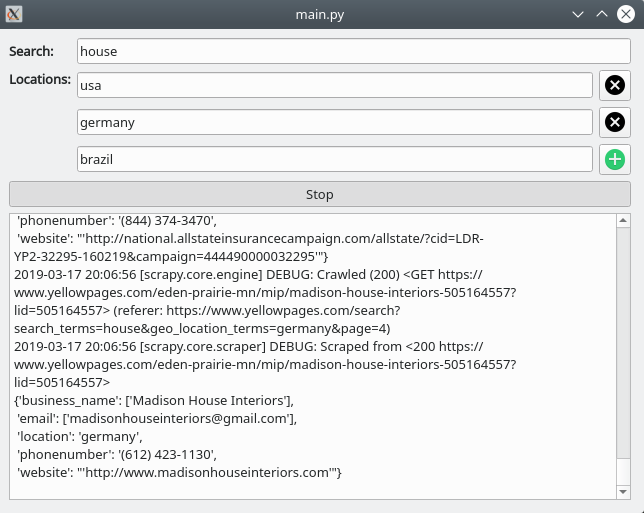
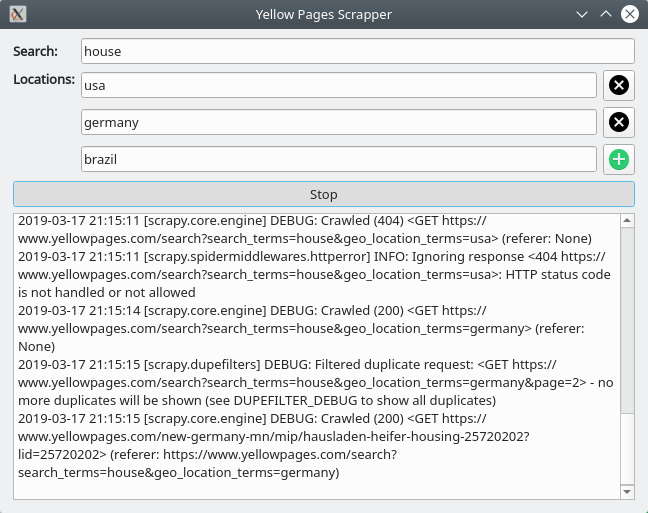
55212321

diff --git a/questions/55212321/yellowpagescraper/gui.py b/questions/55212321/yellowpagescraper/gui.py
@@ -85,9 +85,10 @@ class LocationWidget(QtWidgets.QWidget):
                 locations.append(le.text())
         return locations
 
-class YelloWidget(QtWidgets.QMainWindow):
+class YellowWidget(QtWidgets.QMainWindow):
     def __init__(self, parent=None):
-        super(YelloWidget, self).__init__(parent)
+        super(YellowWidget, self).__init__(parent)
+        self.setWindowTitle('Yellow Pages Scrapper')
         self.scrapy_worker = ScrapyWorker(self)
         self.search_item_le = QtWidgets.QLineEdit()
         self.location_widget = LocationWidget()
@@ -133,7 +134,7 @@ if __name__ == '__main__':
     import sys
     app = QtWidgets.QApplication(sys.argv)
     app.setStyle('fusion')
-    w = YelloWidget()
+    w = YellowWidget()
     w.resize(640, 480)
     w.show()
     sys.exit(app.exec_())

diff --git a/questions/55212321/yellowpagescraper/README.md b/questions/55212321/yellowpagescraper/README.md
@@ -1,9 +1,32 @@
-# ComandLine:
+# Command Line:
 
 ```bash
-scrapy crawl yellow -a parameters='{"search_item": "house", "locations": ["usa", "germany", "brazil"]}'
+foo@bar:~$ cd scrape
+foo@bar:~$ scrapy crawl yellow -a parameters='{"search_item": "house", "locations": ["usa", "germany", "brazil"]}'
+``` 
+
+# Terminal:
+
+```bash
+foo@bar:~$ python terminal.py 
+Input The Search Item: house
+Location:usa
+Do you want to add a new location?: [y/n]: y
+Location:germany
+Do you want to add a new location?: [y/n]: brazil
+Please use y/n or yes/no.
+
+Do you want to add a new location?: [y/n]: n
+2019-03-17 21:10:41 [scrapy.utils.log] INFO: Scrapy 1.6.0 started (bot: scrape)
+...
 ```  
 
 # GUI:
+
+
+```bash
+foo@bar:~$ python gui.py
+...
+``` 
 
   ![](screenshot.png) 
